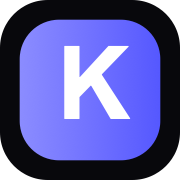
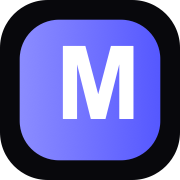
fix: replace leftover KAIRO "K" brandmark with MemeCloud "M"
The KAIRO->MemeCloud text rebrand missed the single-letter logo mark:
the brandmark span and the actual icon/favicon/apple-touch-icon PNGs
still showed a hardcoded "K". Regenerated all icon sizes from icon.svg.

Changed region(s): [[0.4167, 0.25, 0.75, 0.6667], [0.3333, 0.25, 0.3611, 0.6667]]

diff --git a/apps/web/app/admin/page.tsx b/apps/web/app/admin/page.tsx
@@ -28,7 +28,7 @@ export default function Admin(){
  useEffect(()=>{void load("overview")},[]);
  function change(t:string){setTab(t);void load(t)}
  return <main className="admin-layout">
-  <aside className="admin-side"><a className="brand" href="/app/"><span className="brandmark small">K</span><span><b>MemeCloud</b><small>Owner controls</small></span></a><nav>{sections.map(([id,label,Icon])=><button key={id} data-admin-target={id} className={tab===id?"active":""} onClick={()=>change(id)}><Icon size={15}/><span>{label}</span></button>)}</nav><div className="admin-side-foot"><div className="owner-chip"><ShieldCheck size={15}/><div><b>{me?.displayName||"Platform owner"}</b><small>Full control</small></div></div><a className="soft-action" href="/app/"><Home size={13}/> Back to MemeCloud</a></div></aside>
+  <aside className="admin-side"><a className="brand" href="/app/"><span className="brandmark small">M</span><span><b>MemeCloud</b><small>Owner controls</small></span></a><nav>{sections.map(([id,label,Icon])=><button key={id} data-admin-target={id} className={tab===id?"active":""} onClick={()=>change(id)}><Icon size={15}/><span>{label}</span></button>)}</nav><div className="admin-side-foot"><div className="owner-chip"><ShieldCheck size={15}/><div><b>{me?.displayName||"Platform owner"}</b><small>Full control</small></div></div><a className="soft-action" href="/app/"><Home size={13}/> Back to MemeCloud</a></div></aside>
   <section className="admin-main"><div className="admin-head"><div><small>MemeCloud · OWNER CONTROL</small><h1>{sections.find(x=>x[0]===tab)?.[1]}</h1><p>{tab==="overview"?"Run the platform from one place.":tab==="config"?"APIs, fees, email, push, discovery and trading rules.":"Real platform data and controls."}</p></div><button className="soft-action" onClick={()=>load()}><RefreshCw size={12}/> Refresh</button></div>
    {err&&<div className="auth-error">{err}</div>}{loading&&!err?<div className="loading"><div><div className="spinner"/>Loading admin data…</div></div>:<>
     {tab==="overview"&&<Overview d={data}/>}

diff --git a/apps/web/app/reset-password/page.tsx b/apps/web/app/reset-password/page.tsx
@@ -3,5 +3,5 @@ import {useState} from "react"; import {apiFetch,plainError} from "../../lib/api
 export default function Reset(){
  const[pw,setPw]=useState("");const[msg,setMsg]=useState("");const[err,setErr]=useState("");
  async function go(e:React.FormEvent){e.preventDefault();setErr("");const token=new URLSearchParams(location.search).get("token")||"";try{await apiFetch("/auth/reset-password",{method:"POST",body:JSON.stringify({token,password:pw})},false);setMsg("Password changed. You can sign in now.");}catch(e){setErr(plainError(e))}}
- return <main className="auth-page" style={{gridTemplateColumns:"1fr"}}><section className="auth-box-wrap"><div className="auth-box"><a className="brand" href="/"><span className="brandmark small">K</span><b>MemeCloud</b></a><h2>Choose a new password</h2><form className="auth-form" onSubmit={go}><label className="field"><span>New password</span><input type="password" value={pw} onChange={e=>setPw(e.target.value)} minLength={8} required/></label>{msg&&<div className="auth-success">{msg}</div>}{err&&<div className="auth-error">{err}</div>}<button className="action-primary">Save new password</button></form><div className="form-foot"><a href="/login/">Sign in</a></div></div></section></main>
+ return <main className="auth-page" style={{gridTemplateColumns:"1fr"}}><section className="auth-box-wrap"><div className="auth-box"><a className="brand" href="/"><span className="brandmark small">M</span><b>MemeCloud</b></a><h2>Choose a new password</h2><form className="auth-form" onSubmit={go}><label className="field"><span>New password</span><input type="password" value={pw} onChange={e=>setPw(e.target.value)} minLength={8} required/></label>{msg&&<div className="auth-success">{msg}</div>}{err&&<div className="auth-error">{err}</div>}<button className="action-primary">Save new password</button></form><div className="form-foot"><a href="/login/">Sign in</a></div></div></section></main>
 }

diff --git a/apps/web/app/onboarding/page.tsx b/apps/web/app/onboarding/page.tsx
@@ -12,7 +12,7 @@ export default function Onboarding(){
  async function finish(){setBusy(true);setErr("");try{await apiFetch("/v1/me/onboarding",{method:"POST",body:JSON.stringify({traderIds:selected,defaultAmountUsd:amount,autoCopyEnabled:auto})});location.href="/app/"}catch(e){setErr(plainError(e));setBusy(false)}}
  if(busy&&!data)return <main className="app-page"><div className="loading"><div><div className="spinner"/>Preparing your account…</div></div></main>;
  const steps=["Welcome","Wallet","Traders","Trading","Review"];
- return <main className="onboarding-page"><div className="onboarding-shell"><a className="brand" href="/"><span className="brandmark small">K</span><b>MemeCloud</b></a><div className="onboarding-progress">{steps.map((s,i)=><div key={s} className={i<=step?"active":""}><i>{i<step?<Check size={12}/>:i+1}</i><span>{s}</span></div>)}</div>
+ return <main className="onboarding-page"><div className="onboarding-shell"><a className="brand" href="/"><span className="brandmark small">M</span><b>MemeCloud</b></a><div className="onboarding-progress">{steps.map((s,i)=><div key={s} className={i<=step?"active":""}><i>{i<step?<Check size={12}/>:i+1}</i><span>{s}</span></div>)}</div>
   {err&&<div className="auth-error">{err}</div>}
   <section className="onboarding-card">
    {step===0&&<><span className="eyebrow">YOUR PRIVATE TRADING WORKSPACE</span><h1>Set up the account around you.</h1><p>Your traders, copy amounts, positions, history and notifications are private to this account. We monitor each source wallet once and make an independent decision for you.</p><div className="onboard-features"><div><Users/><b>Your traders</b><span>Follow, Watch or Auto Copy independently.</span></div><div><Zap/><b>24/7 engine</b><span>The VPS keeps monitoring after you close the app.</span></div><div><ShieldCheck/><b>You stay in control</b><span>Login is separate from trading authorization.</span></div></div></>}

diff --git a/apps/web/app/forgot-password/page.tsx b/apps/web/app/forgot-password/page.tsx
@@ -3,5 +3,5 @@ import {useState} from "react"; import {apiFetch,plainError} from "../../lib/api
 export default function Forgot(){
  const[email,setEmail]=useState("");const[msg,setMsg]=useState("");const[err,setErr]=useState("");
  async function go(e:React.FormEvent){e.preventDefault();setErr("");try{await apiFetch("/auth/forgot-password",{method:"POST",body:JSON.stringify({email})},false);setMsg("If that email exists, a reset link has been sent.");}catch(e){setErr(plainError(e))}}
- return <main className="auth-page" style={{gridTemplateColumns:"1fr"}}><section className="auth-box-wrap"><div className="auth-box"><a className="brand" href="/"><span className="brandmark small">K</span><b>MemeCloud</b></a><h2>Reset password</h2><p>Enter your account email.</p><form className="auth-form" onSubmit={go}><label className="field"><span>Email</span><input type="email" value={email} onChange={e=>setEmail(e.target.value)} required/></label>{msg&&<div className="auth-success">{msg}</div>}{err&&<div className="auth-error">{err}</div>}<button className="action-primary">Send reset link</button></form><div className="form-foot"><a href="/login/">Back to sign in</a></div></div></section></main>
+ return <main className="auth-page" style={{gridTemplateColumns:"1fr"}}><section className="auth-box-wrap"><div className="auth-box"><a className="brand" href="/"><span className="brandmark small">M</span><b>MemeCloud</b></a><h2>Reset password</h2><p>Enter your account email.</p><form className="auth-form" onSubmit={go}><label className="field"><span>Email</span><input type="email" value={email} onChange={e=>setEmail(e.target.value)} required/></label>{msg&&<div className="auth-success">{msg}</div>}{err&&<div className="auth-error">{err}</div>}<button className="action-primary">Send reset link</button></form><div className="form-foot"><a href="/login/">Back to sign in</a></div></div></section></main>
 }

diff --git a/apps/web/app/page.tsx b/apps/web/app/page.tsx
@@ -19,7 +19,7 @@ export default function Landing(){
     <div className="landing-glow one"/><div className="landing-glow two"/>
     <div className="public-shell">
       <header className="public-header">
-        <a className="brand" href="/"><span className="brandmark">K</span><b>MemeCloud</b></a>
+        <a className="brand" href="/"><span className="brandmark">M</span><b>MemeCloud</b></a>
         <nav className="public-links">
           <a href="#how">How it works</a><a href="#features">Features</a><a href="#security">Security</a>
         </nav>
@@ -35,7 +35,7 @@ export default function Landing(){
 
         <div className="product-preview">
           <div className="preview-side">
-            <span className="brandmark small">K</span>
+            <span className="brandmark small">M</span>
             <i/><i/><i/><i/><i/>
           </div>
           <div className="preview-body">
@@ -89,7 +89,7 @@ export default function Landing(){
         <LineChart size={32}/><h2>Build your trader list.</h2><p>Your dashboard starts empty and becomes yours — no fake balance, fake P&amp;L or shared public account.</p><a className="hero-primary" href="/signup/">Start trading <ArrowRight size={18}/></a>
       </section>
 
-      <footer className="public-footer"><div className="brand"><span className="brandmark small">K</span><b>MemeCloud</b></div><span>Autonomous intelligence · Personal dashboards · Simulation until live authorization</span><span><Smartphone size={14}/> PWA ready</span></footer>
+      <footer className="public-footer"><div className="brand"><span className="brandmark small">M</span><b>MemeCloud</b></div><span>Autonomous intelligence · Personal dashboards · Simulation until live authorization</span><span><Smartphone size={14}/> PWA ready</span></footer>
     </div>
     <InstallAppPrompt/>
   </main>

diff --git a/apps/web/components/AuthCard.tsx b/apps/web/components/AuthCard.tsx
@@ -39,7 +39,7 @@ export default function AuthCard({mode}:{mode:"login"|"signup"}){
 
   return <div className="auth-page">
     <section className="auth-art">
-      <a className="brand" href="/"><span className="brandmark">K</span><b>MemeCloud</b></a>
+      <a className="brand" href="/"><span className="brandmark">M</span><b>MemeCloud</b></a>
       <div className="auth-art-copy"><span>AUTONOMOUS CRYPTO INTELLIGENCE</span><h1>Discover.<br/>Decide.<br/>Manage.</h1><p>Your private MemeCloud workspace combines market discovery, wallet intelligence, scoring, execution controls and position management without fabricating account data.</p></div>
       <div className="auth-points">
         <div className="auth-point"><CheckCircle2 size={15}/> Follow, watch or Auto Copy each trader independently</div>
@@ -49,7 +49,7 @@ export default function AuthCard({mode}:{mode:"login"|"signup"}){
     </section>
     <section className="auth-box-wrap">
       <div className="auth-box">
-        <a className="brand" href="/"><span className="brandmark small">K</span><b>MemeCloud</b></a>
+        <a className="brand" href="/"><span className="brandmark small">M</span><b>MemeCloud</b></a>
         <h2>{mode==="signup"?"Create your account":"Welcome back"}</h2>
         <p>{mode==="signup"?"Start with an account, then choose your traders and connect a trading wallet separately.":"Sign in to your private dashboard."}</p>
         <form className="auth-form" onSubmit={submit}>

diff --git a/apps/web/app/verify-email/page.tsx b/apps/web/app/verify-email/page.tsx
@@ -3,5 +3,5 @@ import {useEffect,useState} from "react"; import {apiFetch,plainError} from "../
 export default function Verify(){
  const[msg,setMsg]=useState("Verifying…");
  useEffect(()=>{const token=new URLSearchParams(location.search).get("token")||"";apiFetch("/auth/verify-email",{method:"POST",body:JSON.stringify({token})},false).then(()=>setMsg("Email verified. You can continue to your dashboard.")).catch(e=>setMsg(plainError(e)))},[]);
- return <main className="auth-page" style={{gridTemplateColumns:"1fr"}}><section className="auth-box-wrap"><div className="auth-box"><a className="brand" href="/"><span className="brandmark small">K</span><b>MemeCloud</b></a><h2>{msg}</h2><a className="hero-primary" href="/app/">Open dashboard</a></div></section></main>
+ return <main className="auth-page" style={{gridTemplateColumns:"1fr"}}><section className="auth-box-wrap"><div className="auth-box"><a className="brand" href="/"><span className="brandmark small">M</span><b>MemeCloud</b></a><h2>{msg}</h2><a className="hero-primary" href="/app/">Open dashboard</a></div></section></main>
 }

diff --git a/apps/web/app/app/page.tsx b/apps/web/app/app/page.tsx
@@ -93,7 +93,7 @@ export default function AppPage(){
   return <main className="app-page">
     <div className="app-layout">
       <aside className="app-sidebar">
-        <a className="brand" href="/"><span className="brandmark small">K</span><b>MemeCloud</b></a>
+        <a className="brand" href="/"><span className="brandmark small">M</span><b>MemeCloud</b></a>
         <nav className="app-nav">{nav.map(([id,label,Icon])=><button key={id} onClick={()=>setView(id)} className={view===id?"active":""}><Icon size={16}/>{label}</button>)}</nav>
         <div className="sidebar-bottom">
           <div className="user-mini"><div className="avatar">{initials(me?.displayName||me?.email)}</div><div><b>{me?.displayName||"Your account"}</b><small>{me?.email||me?.wallets?.[0]?.address?.slice(0,10)||"Wallet account"}</small></div></div>
